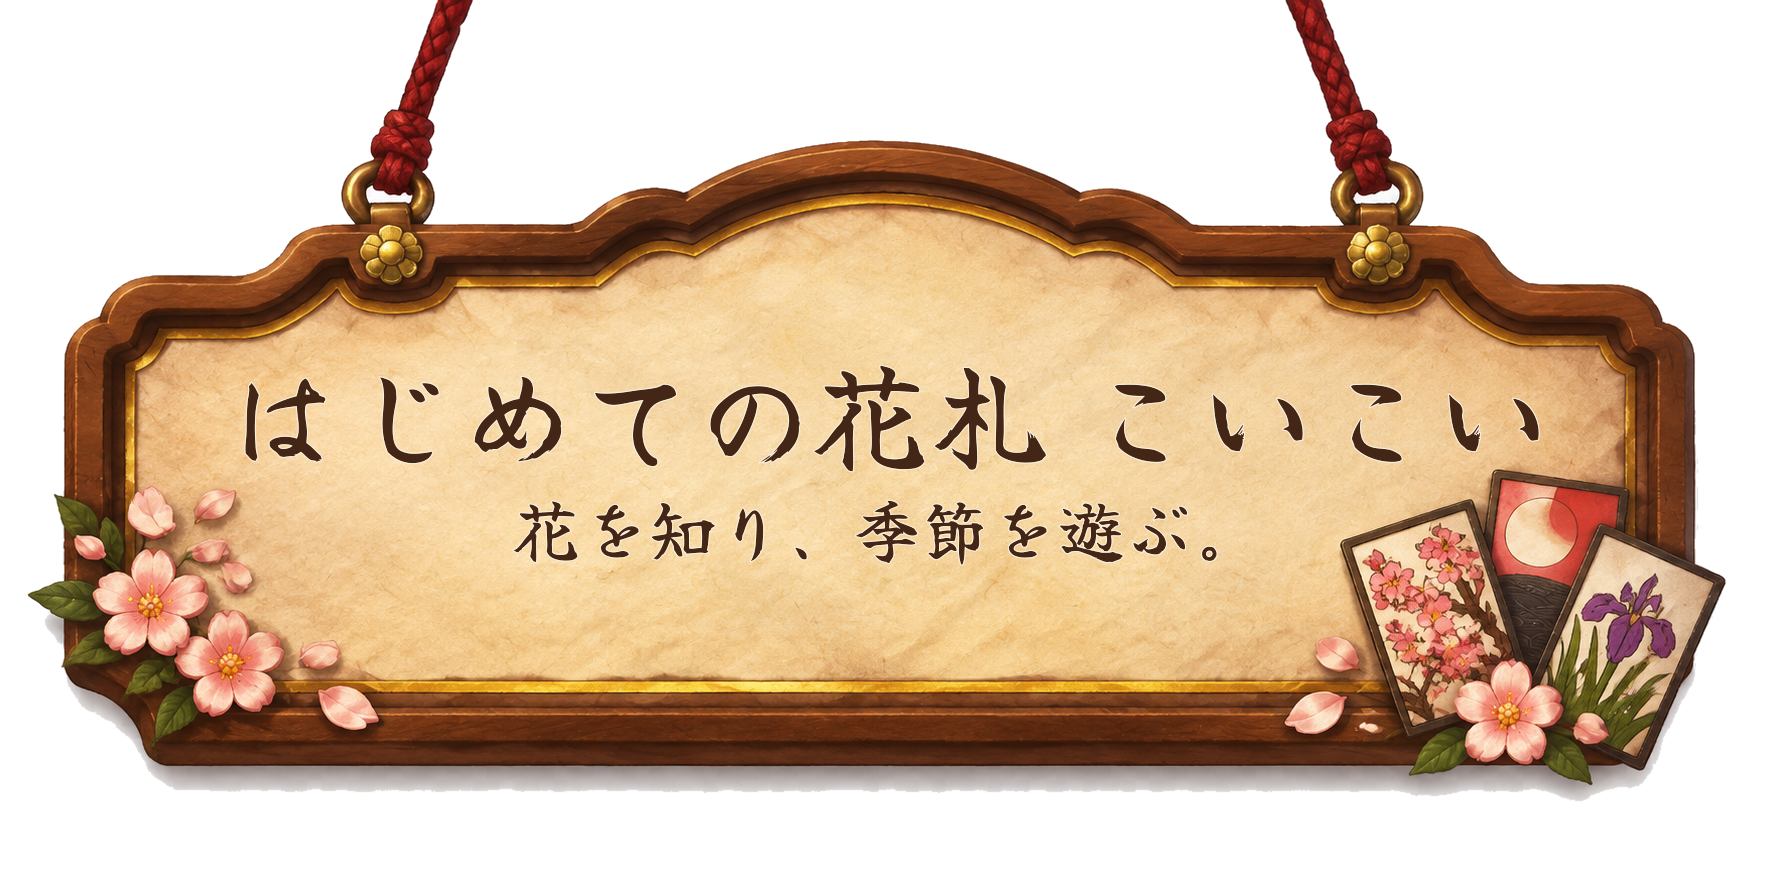
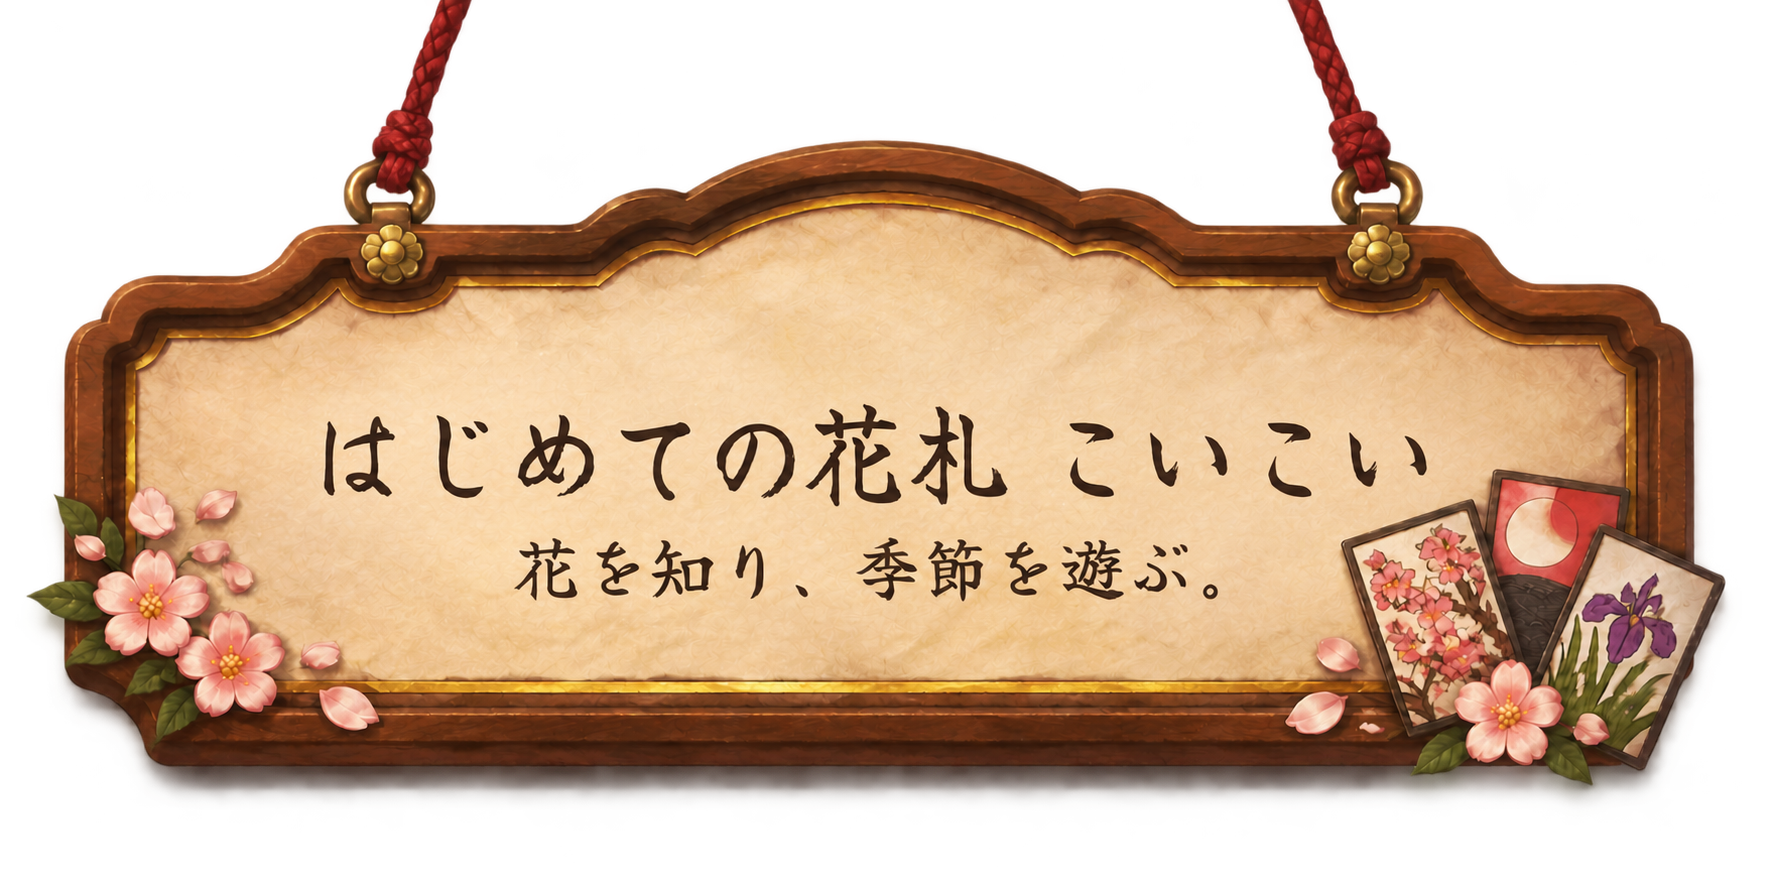
Publish 花札 755e852

diff --git a/hanafuda/sw.js b/hanafuda/sw.js
@@ -1,5 +1,5 @@
 // Generated by scripts/build-offline.mjs; no third-party network dependency.
-const CACHE="hanafuda-v1-255385f3db58";
+const CACHE="hanafuda-v1-755e852c0317";
 const ASSETS=["./","./index.html","./style.css","./shared-layout.css","./game-theme.css","./screen-layout.css","./landscape.css","./lesson-overlay.css","./ui-fit.css","./seasonal-stage.css","./app.js","./tabletop-preview.css","./stage2-preview.css","./stage3-preview.css","./stage4-preview.css","./baseline-tutorial-additions.css","./stage5-preview.css","./home-redesign.css","./engawa-home.css","./tutorial-engawa.css","./board-layout.css","./betting.css","./study-panels.css","./stage2-scene.svg","./assets/stage3-garden.jpg","./assets/stage4-garden.png","./assets/stage5-polished.png","./assets/home-garden-20261116.png","./assets/engawa-home/garden-engawa.jpg","./assets/home-signs/title.png","./assets/engawa-home/plaque-primary.png","./assets/engawa-home/plaque-secondary.png","./assets/engawa-home/match-label.png","./assets/engawa-home/plaque-settings.png","./assets/engawa-home/YujiSyuku-Regular.ttf","./images/japanese-wooden-table-indigo-mat.jpg","./images/teacher-player-arms-watercolor.png","./images/opponent-arms-fan-watercolor.png","./images/opponent-player-arms-watercolor.png","./assets/teacher-icon.png","./assets/teacher-figure.png","./assets/opponent-easy-figure.webp","./images/opponent-easy-board.webp","./assets/opponent-normal-figure.webp","./images/opponent-normal-board.webp","./assets/opponent-hard-figure.webp","./images/opponent-hard-board.webp","./assets/cards/Hanafuda_January_Hikari.png","./assets/cards/Hanafuda_January_Tanzaku.png","./assets/cards/Hanafuda_January_Kasu_1.png","./assets/cards/Hanafuda_January_Kasu_2.png","./assets/cards/Hanafuda_February_Tane.png","./assets/cards/Hanafuda_February_Tanzaku.png","./assets/cards/Hanafuda_February_Kasu_1.png","./assets/cards/Hanafuda_February_Kasu_2.png","./assets/cards/Hanafuda_March_Hikari.png","./assets/cards/Hanafuda_March_Tanzaku.png","./assets/cards/Hanafuda_March_Kasu_1.png","./assets/cards/Hanafuda_March_Kasu_2.png","./assets/cards/Hanafuda_April_Tane.png","./assets/cards/Hanafuda_April_Tanzaku.png","./assets/cards/Hanafuda_April_Kasu_1.png","./assets/cards/Hanafuda_April_Kasu_2.png","./assets/cards/Hanafuda_May_Tane.png","./assets/cards/Hanafuda_May_Tanzaku.png","./assets/cards/Hanafuda_May_Kasu_1.png","./assets/cards/Hanafuda_May_Kasu_2.png","./assets/cards/Hanafuda_June_Tane.png","./assets/cards/Hanafuda_June_Tanzaku.png","./assets/cards/Hanafuda_June_Kasu_1.png","./assets/cards/Hanafuda_June_Kasu_2.png","./assets/cards/Hanafuda_July_Tane.png","./assets/cards/Hanafuda_July_Tanzaku.png","./assets/cards/Hanafuda_July_Kasu_1.png","./assets/cards/Hanafuda_July_Kasu_2.png","./assets/cards/Hanafuda_August_Hikari.png","./assets/cards/Hanafuda_August_Tane.png","./assets/cards/Hanafuda_August_Kasu_1.png","./assets/cards/Hanafuda_August_Kasu_2.png","./assets/cards/Hanafuda_September_Tane.png","./assets/cards/Hanafuda_September_Tanzaku.png","./assets/cards/Hanafuda_September_Kasu_1.png","./assets/cards/Hanafuda_September_Kasu_2.png","./assets/cards/Hanafuda_October_Tane.png","./assets/cards/Hanafuda_October_Tanzaku.png","./assets/cards/Hanafuda_October_Kasu_1.png","./assets/cards/Hanafuda_October_Kasu_2.png","./assets/cards/Hanafuda_November_Hikari.png","./assets/cards/Hanafuda_November_Tane.png","./assets/cards/Hanafuda_November_Tanzaku.png","./assets/cards/Hanafuda_November_Kasu.png","./assets/cards/Hanafuda_December_Hikari.png","./assets/cards/Hanafuda_December_Kasu_1.png","./assets/cards/Hanafuda_December_Kasu_2.png","./assets/cards/Hanafuda_December_Kasu_3.png"];
 const CACHE_PREFIX="hanafuda-v1-";
 self.addEventListener("install",event=>event.waitUntil(caches.open(CACHE).then(c=>c.addAll(ASSETS.map(asset=>new Request(asset,{cache:"reload"})))).then(()=>self.skipWaiting())));

diff --git a/hanafuda/study-panels.css b/hanafuda/study-panels.css
@@ -363,11 +363,16 @@
 .match-wallet-slot {width:100%;flex:0 0 34px}
 .match-controls .match-start {font-size:17px}
 .feedback-match > .inline-teacher {grid-area:guide}
-.opponent-stage {position:relative;width:100%;flex:1;min-height:0}
+.opponent-stage {
+  position:relative;width:100%;flex:1;min-height:0;
+  display:grid;grid-template-columns:minmax(0,1fr) auto;
+  grid-template-rows:minmax(0,1fr);align-items:center;
+}
 .tutorial-aligned .feedback-match .match-portrait {
   display:block;
-  width:100%;
+  width:auto;
   height:100%;
+  aspect-ratio:57/110;
   min-height:0;
   padding:0;
   background:none;
@@ -382,21 +387,27 @@
   object-position:right bottom;
 }
 .tutorial-aligned .teacher-bubble.opponent-line {
-  position:absolute;
-  inset:auto auto 16% 0;
+  position:relative;
+  inset:auto;
   display:block;
-  width:52%;
+  grid-column:1;
+  grid-row:1;
+  justify-self:end;
+  margin-inline-end:-7px;
+  z-index:1;
+  width:min(100%,190px);
   padding:7px 8px;
   text-align:left;
   pointer-events:auto;
 }
 .tutorial-aligned .opponent-line::before {
+  inset-block-start:calc(50% - 5px);
   inset-inline-start:auto;
   inset-inline-end:-6px;
   border-width:1px 1px 0 0;
 }
 .tutorial-aligned .opponent-line .teacher-speech {display:block;font:13px/1.45 var(--study-body);color:#573c2b}
-.tutorial-aligned .feedback-match .match-portrait {width:48%;margin-inline-start:auto}
+.tutorial-aligned .feedback-match .match-portrait {grid-column:2;grid-row:1}
 .feedback-match .match-portrait:focus-visible {outline-offset:-3px}
 .feedback-match .betting-wallet {width:100%;flex-shrink:0}
 .feedback-match .betting-wallet button {font-size:13px;padding-inline:8px}

diff --git a/hanafuda/engawa-home.css b/hanafuda/engawa-home.css
@@ -110,11 +110,9 @@ html[data-hanafuda-preview="stage5"] .scene-home .engawa-board::before{inset:0;}
 html[data-hanafuda-preview="stage5"] .scene-home .home-tutorial.engawa-board::before{inset:-6% -3% 0;}
 
 html[data-hanafuda-preview="stage5"] .scene-home .home-tutorial .engawa-main {
-  font-size:clamp(18px,4.6vw,46px);
-  transform:translateX(-10%);
+  font-size:clamp(18px,4.1vw,42px);
 }
-html[data-hanafuda-preview="stage5"] .scene-home .engawa-small .engawa-label{font-size:clamp(17px,2.65vw,26px)}
-html[data-hanafuda-preview="stage5"] .scene-home .home-dictionary .engawa-label{transform:translateX(-6%)}
+html[data-hanafuda-preview="stage5"] .scene-home .engawa-small .engawa-label{font-size:clamp(16px,2.5vw,24px)}
 html[data-hanafuda-preview="stage5"] .scene-home .home-settings.engawa-board .engawa-label{font-size:clamp(17px,2.55vw,25px)}
 
 html[data-hanafuda-preview="stage5"] .scene-home{

diff --git a/index.html b/index.html
@@ -38,9 +38,9 @@
       <span class="body"><strong>星屑の勇者</strong><small>Web版</small><small class="version">Web試遊版 · f3fdc20</small></span>
       <span class="arrow" aria-hidden="true">→</span>
     </a>
-<a class="app" href="./hanafuda/?v=255385f">
+<a class="app" href="./hanafuda/?v=755e852">
       <span class="emoji" aria-hidden="true">🎴</span>
-      <span class="body"><strong>はじめての花札 こいこい</strong><small>Web版</small><small class="version">v0.5.1 · 255385f</small></span>
+      <span class="body"><strong>はじめての花札 こいこい</strong><small>Web版</small><small class="version">v0.5.1 · 755e852</small></span>
       <span class="arrow" aria-hidden="true">→</span>
     </a>
 </nav>
